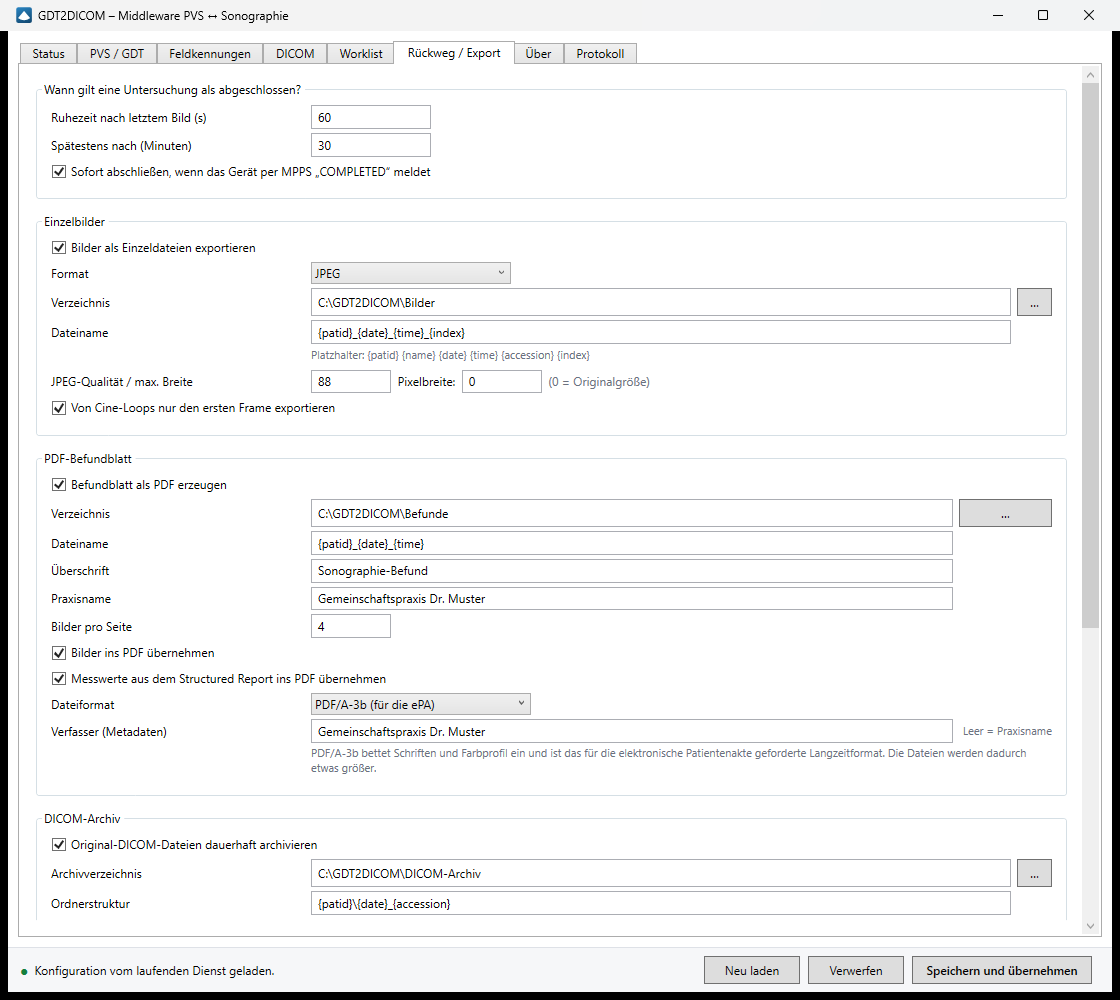
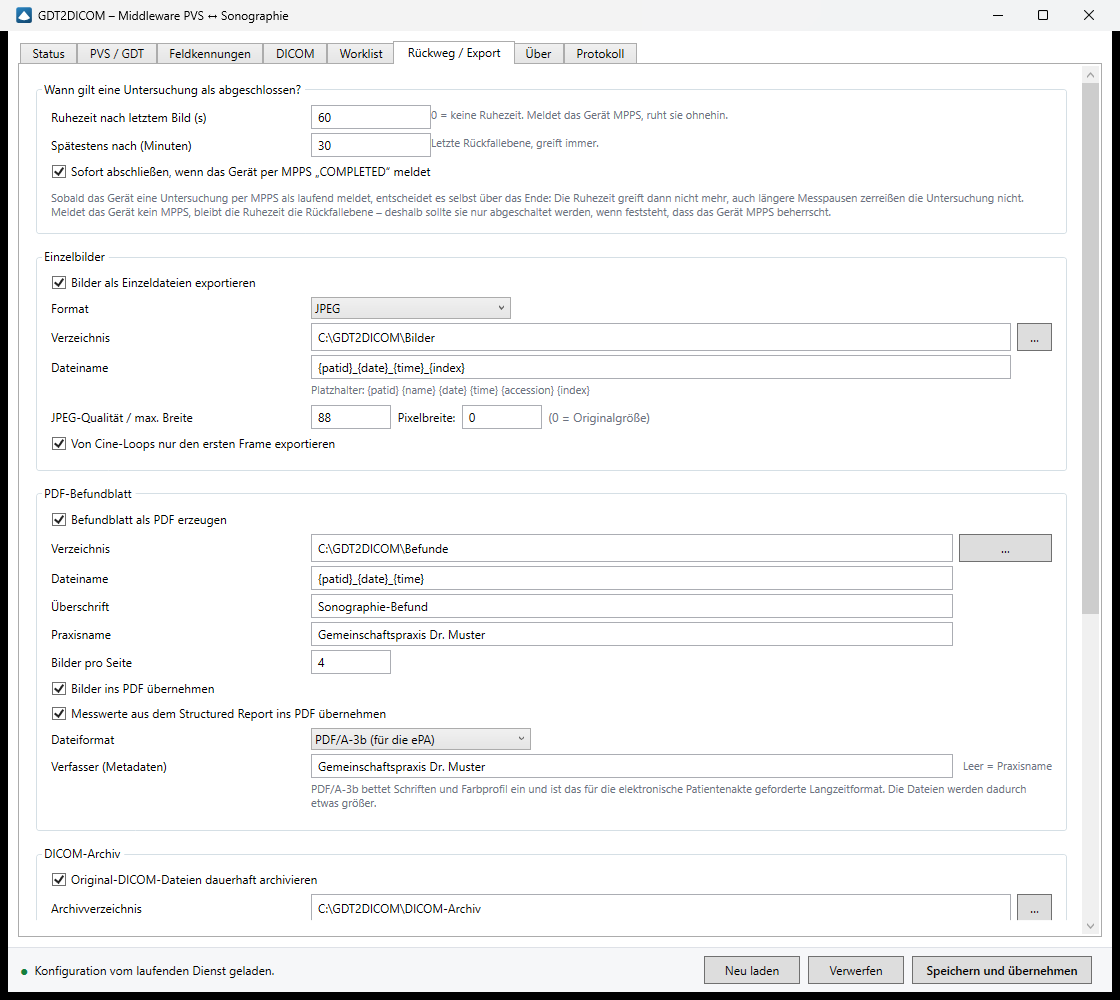
Ruhezeit ruht, solange das Geraet die Untersuchung per MPPS fuehrt
Bisher konnte eine Messpause eine laufende Untersuchung zerreissen: Nach 20
Sekunden ohne neues Bild wurde abgeschlossen, auch wenn das Geraet per MPPS
gerade "IN PROGRESS" gemeldet hatte. Bei Sonographie ist eine solche Pause
normal, und im PVS landeten dann zwei oder drei Ruecksaetze fuer einen Termin.

Meldet das Geraet eine Untersuchung als laufend, entscheidet jetzt es ueber das
Ende. Die Ruhezeit bleibt als Rueckfallebene fuer Geraete ohne MPPS - ob ein
Geraet MPPS beherrscht, steht in dessen Conformance Statement und laesst sich
nicht voraussetzen. Vorgabe der Ruhezeit von 20 auf 60 Sekunden.

Ausgesetzt wird nur, wenn auf die Abschlussmeldung ueberhaupt reagiert wird.
Ohne diese Bedingung bliebe bei abgeschaltetem "Sofort abschliessen bei
COMPLETED" gar nichts mehr uebrig, was die Untersuchung schliesst.

Zwei Fehler dabei behoben:

- 0 bedeutete nicht "aus", sondern 3 Sekunden. Math.Max(3, Wert) machte aus dem
  Abschalten das Gegenteil - jede Pause von drei Sekunden haette abgeschlossen.
  Dieselbe Falle wie seinerzeit bei der Log-Aufbewahrung.
- Eine MPPS-Meldung, die vor dem ersten Bild eintraf, wurde stillschweigend
  verworfen, weil die Untersuchung noch nicht existierte. MPPS und Bilder laufen
  ueber getrennte Associations, die Reihenfolge ist nicht garantiert. Solche
  Meldungen werden jetzt vorgemerkt und greifen, sobald die Untersuchung
  auftaucht; Vermerke ohne Untersuchung verfallen nach der harten Obergrenze.
[…]

diff --git a/src/GDT2DICOM.Gui/MainWindow.xaml b/src/GDT2DICOM.Gui/MainWindow.xaml
@@ -626,17 +626,24 @@
                                 </Grid.ColumnDefinitions>
                                 <Grid.RowDefinitions>
                                     <RowDefinition Height="Auto" /><RowDefinition Height="Auto" />
-                                    <RowDefinition Height="Auto" />
+                                    <RowDefinition Height="Auto" /><RowDefinition Height="Auto" />
                                 </Grid.RowDefinitions>
 
                                 <Label Content="Ruhezeit nach letztem Bild (s)" />
                                 <TextBox Grid.Column="1" Text="{Binding Config.Export.StudyIdleTimeoutSeconds, UpdateSourceTrigger=PropertyChanged}" />
+                                <TextBlock Grid.Column="2" Style="{StaticResource Hint}" VerticalAlignment="Center"
+                                           Text="0 = keine Ruhezeit. Meldet das Gerät MPPS, ruht sie ohnehin." />
 
                                 <Label Grid.Row="1" Content="Spätestens nach (Minuten)" />
                                 <TextBox Grid.Row="1" Grid.Column="1" Text="{Binding Config.Export.StudyMaxAgeMinutes, UpdateSourceTrigger=PropertyChanged}" />
+                                <TextBlock Grid.Row="1" Grid.Column="2" Style="{StaticResource Hint}" VerticalAlignment="Center"
+                                           Text="Letzte Rückfallebene, greift immer." />
 
                                 <CheckBox Grid.Row="2" Grid.ColumnSpan="3" Content="Sofort abschließen, wenn das Gerät per MPPS „COMPLETED“ meldet"
                                           IsChecked="{Binding Config.Export.FinalizeOnMppsCompleted}" />
+
+                                <TextBlock Grid.Row="3" Grid.ColumnSpan="3" Style="{StaticResource Hint}" TextWrapping="Wrap" Margin="0,6,0,0"
+                                           Text="Sobald das Gerät eine Untersuchung per MPPS als laufend meldet, entscheidet es selbst über das Ende: Die Ruhezeit greift dann nicht mehr, auch längere Messpausen zerreißen die Untersuchung nicht. Meldet das Gerät kein MPPS, bleibt die Ruhezeit die Rückfallebene – deshalb sollte sie nur abgeschaltet werden, wenn feststeht, dass das Gerät MPPS beherrscht." />
                             </Grid>
                         </GroupBox>
 

diff --git a/src/GDT2DICOM.Core/Pipeline/StudyCollector.cs b/src/GDT2DICOM.Core/Pipeline/StudyCollector.cs
@@ -24,6 +24,13 @@ public sealed class PendingStudy
     public string CallingAeTitle { get; set; } = "";
     public string? MppsSopInstanceUid { get; set; }
 
+    /// <summary>
+    /// Das Gerät hat für diese Untersuchung MPPS „IN PROGRESS“ gemeldet und damit angekündigt,
+    /// dass es das Ende selbst mitteilt. Solange das gilt, greift die Ruhezeit nicht – eine
+    /// Messpause von mehreren Minuten darf eine laufende Untersuchung nicht zerreißen.
+    /// </summary>
+    public bool MppsInProgress { get; set; }
+
     public bool ForceFinalize { get; set; }
 
     public override string ToString() => $"{StudyInstanceUid} ({Files.Count} Objekte, {PatientName})";
@@ -43,6 +50,16 @@ public sealed class StudyCollector : IAsyncDisposable
     private readonly Dictionary<string, PendingStudy> _studies = new(StringComparer.Ordinal);
     private readonly object _lock = new();
     private readonly SemaphoreSlim _finalizeLock = new(1, 1);
+
+    /// <summary>
+    /// MPPS-Meldungen, die eintrafen, bevor das erste Bild da war. Sie hier zu behalten ist
+    /// nötig, weil MPPS und Bilder über getrennte Associations laufen und die Reihenfolge
+    /// nicht garantiert ist. Früher wurde eine solche Meldung stillschweigend verworfen; mit
+    /// ausgeschalteter Ruhezeit bliebe die Untersuchung dann bis zur harten Obergrenze liegen.
+    /// </summary>
+    private readonly Dictionary<string, VorgemerktesMpps> _vorgemerkteMpps = new(StringComparer.OrdinalIgnoreCase);
+
+    private sealed record VorgemerktesMpps(string? MppsUid, bool Abgeschlossen, DateTime EingegangenUtc);
 
     private CancellationTokenSource? _cts;
     private Task? _timerTask;
@@ -126,22 +143,88 @@ public sealed class StudyCollector : IAsyncDisposable
             study.StudyTime = Prefer(study.StudyTime, ds.GetSingleValueOrDefault(DicomTag.StudyTime, string.Empty));
             study.Modality = Prefer(study.Modality, ds.GetSingleValueOrDefault(DicomTag.Modality, string.Empty));
             study.DeviceName = Prefer(study.DeviceName, ds.GetSingleValueOrDefault(DicomTag.ManufacturerModelName, string.Empty));
+
+            // Erst hier, weil die Accession Number oben aus dem Objekt kommt und eine
+            // vorgemerkte Meldung womöglich nur darüber zuzuordnen ist.
+            UebernehmeVorgemerktesUnsafe(study);
         }
     }
 
+    /// <summary>
+    /// Meldet, dass das Gerät die Untersuchung per MPPS begonnen hat. Ab da übernimmt das
+    /// Gerät die Entscheidung, wann Schluss ist – die Ruhezeit greift nicht mehr.
+    /// </summary>
+    public void MarkInProgress(string? studyInstanceUid, string? accessionNumber, string? mppsUid) =>
+        VermerkeMpps(studyInstanceUid, accessionNumber, mppsUid, abgeschlossen: false);
+
     /// <summary>Meldet, dass das Gerät die Untersuchung per MPPS abgeschlossen hat.</summary>
-    public void MarkCompleted(string? studyInstanceUid, string? accessionNumber, string? mppsUid)
+    public void MarkCompleted(string? studyInstanceUid, string? accessionNumber, string? mppsUid) =>
+        VermerkeMpps(studyInstanceUid, accessionNumber, mppsUid, abgeschlossen: true);
+
+    private void VermerkeMpps(string? studyInstanceUid, string? accessionNumber, string? mppsUid, bool abgeschlossen)
     {
         lock (_lock)
         {
             var study = FindUnsafe(studyInstanceUid, accessionNumber);
-            if (study is null)
-                return;
 
+            if (study is null)
+            {
+                // Bilder noch nicht da – Meldung aufheben, bis die Untersuchung auftaucht.
+                foreach (var schluessel in Schluessel(studyInstanceUid, accessionNumber))
+                    _vorgemerkteMpps[schluessel] = new VorgemerktesMpps(mppsUid, abgeschlossen, DateTime.UtcNow);
+
+                _logger.LogInformation(
+                    "MPPS {Status} für eine Untersuchung, zu der noch kein Objekt vorliegt – vorgemerkt.",
+                    abgeschlossen ? "COMPLETED" : "IN PROGRESS");
+                return;
+            }
+
+            AnwendenUnsafe(study, mppsUid, abgeschlossen);
+        }
+    }
+
+    private void AnwendenUnsafe(PendingStudy study, string? mppsUid, bool abgeschlossen)
+    {
+        if (!string.IsNullOrWhiteSpace(mppsUid))
             study.MppsSopInstanceUid = mppsUid;
+
+        if (abgeschlossen)
+        {
             study.ForceFinalize = true;
             _logger.LogInformation("Untersuchung {Uid} per MPPS als abgeschlossen gemeldet.", study.StudyInstanceUid);
         }
+        else
+        {
+            study.MppsInProgress = true;
+            _logger.LogInformation(
+                "Untersuchung {Uid} läuft laut MPPS – die Ruhezeit greift bis zur Abschlussmeldung nicht.",
+                study.StudyInstanceUid);
+        }
+    }
+
+    private void UebernehmeVorgemerktesUnsafe(PendingStudy study)
+    {
+        foreach (var schluessel in Schluessel(study.StudyInstanceUid, study.AccessionNumber))
+        {
+            if (!_vorgemerkteMpps.TryGetValue(schluessel, out var vermerk))
+                continue;
+
+            _vorgemerkteMpps.Remove(schluessel);
+            AnwendenUnsafe(study, vermerk.MppsUid, vermerk.Abgeschlossen);
+        }
+    }
+
+    /// <summary>
+    /// Study Instance UID und Accession Number als Schlüssel. Beides, weil eine MPPS-Meldung
+    /// mal das eine und mal das andere zuverlässig mitbringt.
+    /// </summary>
+    private static IEnumerable<string> Schluessel(string? studyInstanceUid, string? accessionNumber)
+    {
+        if (!string.IsNullOrWhiteSpace(studyInstanceUid))
+            yield return "S:" + studyInstanceUid;
+
+        if (!string.IsNullOrWhiteSpace(accessionNumber))
+            yield return "A:" + accessionNumber;
     }
 
     private PendingStudy? FindUnsafe(string? studyInstanceUid, string? accessionNumber)
@@ -179,6 +262,10 @@ public sealed class StudyCollector : IAsyncDisposable
     private async Task CheckDueStudiesAsync()
     {
         var config = _config().Export;
+
+        // 0 heißt aus. Der Wert wird sonst nach unten begrenzt, weil diese Schleife ohnehin
+        // nur alle drei Sekunden läuft – eine kürzere Ruhezeit wäre eine leere Zusage.
+        var idleAktiv = config.StudyIdleTimeoutSeconds > 0;
         var idle = TimeSpan.FromSeconds(Math.Max(3, config.StudyIdleTimeoutSeconds));
         var maxAge = TimeSpan.FromMinutes(Math.Max(1, config.StudyMaxAgeMinutes));
         var now = DateTime.UtcNow;
@@ -186,14 +273,27 @@ public sealed class StudyCollector : IAsyncDisposable
         List<PendingStudy> due;
         lock (_lock)
         {
+            // Die Ruhezeit ruht, solange das Gerät die Untersuchung per MPPS als laufend
+            // führt – dann kommt die Abschlussmeldung vom Gerät. Das gilt nur, wenn auf diese
+            // Meldung überhaupt reagiert wird; sonst bliebe die Untersuchung sonst liegen,
+            // bis die harte Obergrenze greift.
             due = _studies.Values
                 .Where(s => (config.FinalizeOnMppsCompleted && s.ForceFinalize)
-                            || now - s.LastInstanceUtc >= idle
+                            || (idleAktiv
+                                && !(config.FinalizeOnMppsCompleted && s.MppsInProgress)
+                                && now - s.LastInstanceUtc >= idle)
                             || now - s.FirstInstanceUtc >= maxAge)
                 .ToList();
 
             foreach (var study in due)
                 _studies.Remove(study.StudyInstanceUid);
+
+            // Vermerke, zu denen nie eine Untersuchung kam, nicht ewig aufheben.
+            foreach (var alt in _vorgemerkteMpps
+                         .Where(v => now - v.Value.EingegangenUtc >= maxAge)
+                         .Select(v => v.Key)
+                         .ToList())
+                _vorgemerkteMpps.Remove(alt);
         }
 
         foreach (var study in due)

diff --git a/tools/GDT2DICOM.TestClient/Program.cs b/tools/GDT2DICOM.TestClient/Program.cs
@@ -25,6 +25,8 @@ try
         "makedicom" => MakeTestImage(args),
         "makesr" => MakeTestReport(args),
         "mpps" => await MppsAsync(args),
+        "mppsstart" => await MppsStartAsync(args),
+        "mppsend" => await MppsEndAsync(args),
         "commit" => await CommitAsync(args),
         "musterbefund" => MakeSampleReport(args),
         _ => PrintUsage()
@@ -58,6 +60,14 @@ static int PrintUsage()
 
           mpps      <host> <port> <callingAE> <calledAE> <StudyUID> <Accession> <PatientenID>
                     Meldet Beginn und Ende einer Untersuchung (N-CREATE + N-SET).
+
+          mppsstart <host> <port> <callingAE> <calledAE> <StudyUID> <Accession> <PatientenID>
+                    Nur der Beginn (N-CREATE, "IN PROGRESS"). Gibt die MPPS-Instanz aus.
+                    Solange eine Untersuchung so als laufend gemeldet ist, schliesst die
+                    Middleware sie nicht wegen Ablauf der Ruhezeit ab.
+
+          mppsend   <host> <port> <callingAE> <calledAE> <StudyUID> <Accession> <PatientenID> <MppsUID>
+                    Nur der Abschluss (N-SET, "COMPLETED") auf die Instanz aus mppsstart.
 
           commit    <host> <port> <callingAE> <calledAE> <eigenerPort> <datei.dcm> [weitere.dcm ...]
                     Fordert Storage Commitment an und wartet auf die Rückmeldung
@@ -351,6 +361,69 @@ static int MakeSampleReport(string[] args)
 
     Console.WriteLine($"Muster-Befundblatt: {result}");
     return 0;
+}
+
+/// <summary>
+/// Nur N-CREATE mit „IN PROGRESS“. Gibt die MPPS-Instanz aus, damit ein späterer Aufruf von
+/// mppsend darauf verweisen kann. Getrennt von <c>mpps</c>, weil sich nur so prüfen lässt, wie
+/// sich die Middleware während einer laufenden Untersuchung verhält.
+/// </summary>
+static Task<int> MppsStartAsync(string[] args) => MppsPhaseAsync(args, "IN PROGRESS");
+
+/// <summary>Nur N-SET mit „COMPLETED“ auf eine vorhandene MPPS-Instanz.</summary>
+static Task<int> MppsEndAsync(string[] args) => MppsPhaseAsync(args, "COMPLETED");
+
+static async Task<int> MppsPhaseAsync(string[] args, string status)
+{
+    var abschluss = status == "COMPLETED";
+    if (args.Length < (abschluss ? 9 : 8))
+        return PrintUsage();
+
+    var (host, port, callingAe, calledAe) = (args[1], int.Parse(args[2]), args[3], args[4]);
+    var (studyUid, accession, patientId) = (args[5], args[6], args[7]);
+    var mppsUid = abschluss ? DicomUID.Parse(args[8]) : DicomUID.Generate();
+
+    var dataset = new DicomDataset
+    {
+        { DicomTag.PerformedProcedureStepStatus, status },
+        { DicomTag.PatientID, patientId },
+        { DicomTag.Modality, "US" },
+        { DicomTag.PerformedProcedureStepStartDate, DateTime.Now.ToString("yyyyMMdd") },
+        { DicomTag.PerformedProcedureStepStartTime, DateTime.Now.ToString("HHmmss") },
+        new DicomSequence(DicomTag.ScheduledStepAttributesSequence, new DicomDataset
+        {
+            { DicomTag.StudyInstanceUID, studyUid },
+            { DicomTag.AccessionNumber, accession }
+        })
+    };
+
+    var ok = true;
+    DicomRequest request = abschluss
+        ? new DicomNSetRequest(DicomUID.ModalityPerformedProcedureStep, mppsUid)
+        {
+            Dataset = dataset,
+            OnResponseReceived = (_, response) =>
+            {
+                Console.WriteLine($"  N-SET ({status}): {response.Status}");
+                if (response.Status != DicomStatus.Success) ok = false;
+            }
+        }
+        : new DicomNCreateRequest(DicomUID.ModalityPerformedProcedureStep, mppsUid)
+        {
+            Dataset = dataset,
+            OnResponseReceived = (_, response) =>
+            {
+                Console.WriteLine($"  N-CREATE ({status}): {response.Status}");
+                if (response.Status != DicomStatus.Success) ok = false;
+            }
+        };
+
+    var client = DicomClientFactory.Create(host, port, useTls: false, callingAe, calledAe);
+    await client.AddRequestAsync(request);
+    await client.SendAsync();
+
+    Console.WriteLine($"  MPPS-Instanz: {mppsUid.UID}");
+    return ok ? 0 : 1;
 }
 
 static async Task<int> MppsAsync(string[] args)

diff --git a/src/GDT2DICOM.Core/Configuration/AppConfig.cs b/src/GDT2DICOM.Core/Configuration/AppConfig.cs
@@ -350,8 +350,10 @@ public enum PdfFormat
 
 public sealed class ExportConfig
 {
-    [Description("Eine Studie gilt als abgeschlossen, wenn so viele Sekunden lang kein weiteres Bild eintrifft.")]
-    public int StudyIdleTimeoutSeconds { get; set; } = 20;
+    [Description("Eine Studie gilt als abgeschlossen, wenn so viele Sekunden lang kein weiteres Bild " +
+                 "eintrifft. 0 = keine Ruhezeit. Meldet das Gerät die Untersuchung per MPPS als laufend, " +
+                 "ruht die Ruhezeit ohnehin, bis das Gerät den Abschluss meldet.")]
+    public int StudyIdleTimeoutSeconds { get; set; } = 60;
 
     [Description("Harte Obergrenze: Studie spätestens nach so vielen Minuten abschließen.")]
     public int StudyMaxAgeMinutes { get; set; } = 30;

diff --git a/src/GDT2DICOM.Core/Runtime/MiddlewareHost.cs b/src/GDT2DICOM.Core/Runtime/MiddlewareHost.cs
@@ -409,6 +409,12 @@ public sealed class MiddlewareHost : IDicomEventSink, IAsyncDisposable
             });
         }
 
+        // Das Gerät kündigt mit IN PROGRESS an, dass es das Ende selbst meldet. Ab da setzt
+        // der Sammler die Ruhezeit aus – sonst zerfiele eine Untersuchung mit längeren
+        // Messpausen in mehrere Rücksätze.
+        if (mppsEvent.Status == MppsStatus.InProgress)
+            _collector.MarkInProgress(mppsEvent.StudyInstanceUid, mppsEvent.AccessionNumber, mppsEvent.SopInstanceUid);
+
         if (mppsEvent.Status is MppsStatus.Completed or MppsStatus.Discontinued)
         {
             _collector.MarkCompleted(mppsEvent.StudyInstanceUid, mppsEvent.AccessionNumber, mppsEvent.SopInstanceUid);

diff --git a/README.md b/README.md
@@ -344,10 +344,26 @@ Aufträge zu sehen – der dritte ist bereits fertig.
 
 ### Reiter „Rückweg / Export“
 
-Wann eine Untersuchung als abgeschlossen gilt, entscheidet die **Ruhezeit** (Vorgabe 20 s ohne
+Wann eine Untersuchung als abgeschlossen gilt, entscheidet die **Ruhezeit** (Vorgabe 60 s ohne
 weiteres Bild) oder eine MPPS-Meldung „COMPLETED“. Erst danach werden Bilder, PDF und der
 GDT-Rücksatz erzeugt – so landet eine Untersuchung als ein Vorgang im PVS und nicht als
 zwanzig Einzelmeldungen.
+
+#### Was gilt, wenn das Gerät MPPS meldet
+
+Meldet das Gerät eine Untersuchung per MPPS als **laufend**, entscheidet es selbst über das
+Ende: Die Ruhezeit greift dann nicht mehr, und auch eine Messpause von zehn Minuten zerreißt
+die Untersuchung nicht. Abgeschlossen wird erst auf „COMPLETED" oder „DISCONTINUED".
+
+Meldet das Gerät kein MPPS, bleibt die Ruhezeit die Rückfallebene. Deshalb ist sie ab Werk
+eingeschaltet: Ob ein bestimmtes Gerät MPPS beherrscht, steht in dessen Conformance Statement
+und lässt sich nicht voraussetzen. **`0` schaltet die Ruhezeit ab** – sinnvoll nur, wenn
+feststeht, dass das Gerät MPPS meldet, sonst bleibt jede Untersuchung bis zur harten
+Obergrenze (*Spätestens nach*, Vorgabe 30 Minuten) liegen.
+
+Trifft die MPPS-Abschlussmeldung ein, **bevor** das erste Bild da ist – MPPS und Bilder laufen
+über getrennte Verbindungen, die Reihenfolge ist nicht garantiert –, wird sie vorgemerkt und
+greift, sobald die Untersuchung auftaucht.
 
 `Dateiverweise als` steuert, ob im GDT-Satz der volle Pfad, ein relativer Pfad oder nur der
 Dateiname steht. Welche Variante das PVS erwartet, steht in dessen GDT-Doku.
